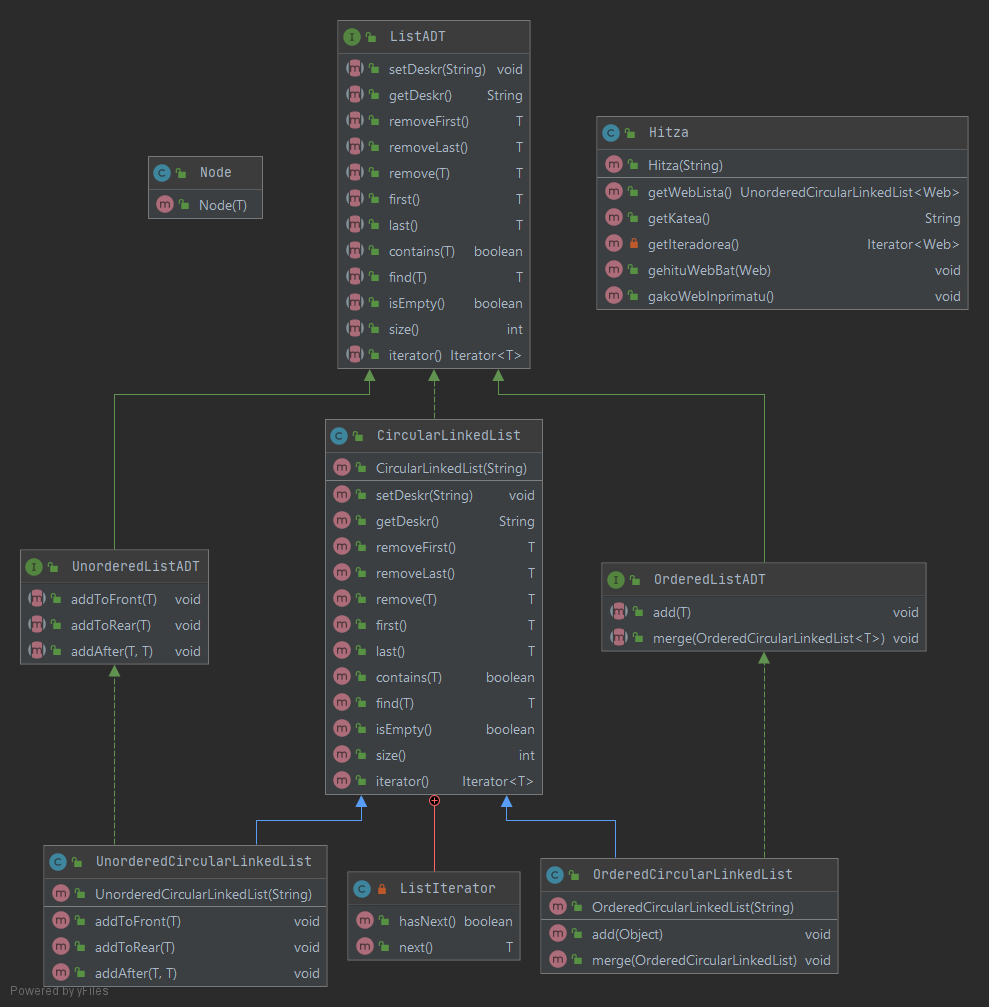
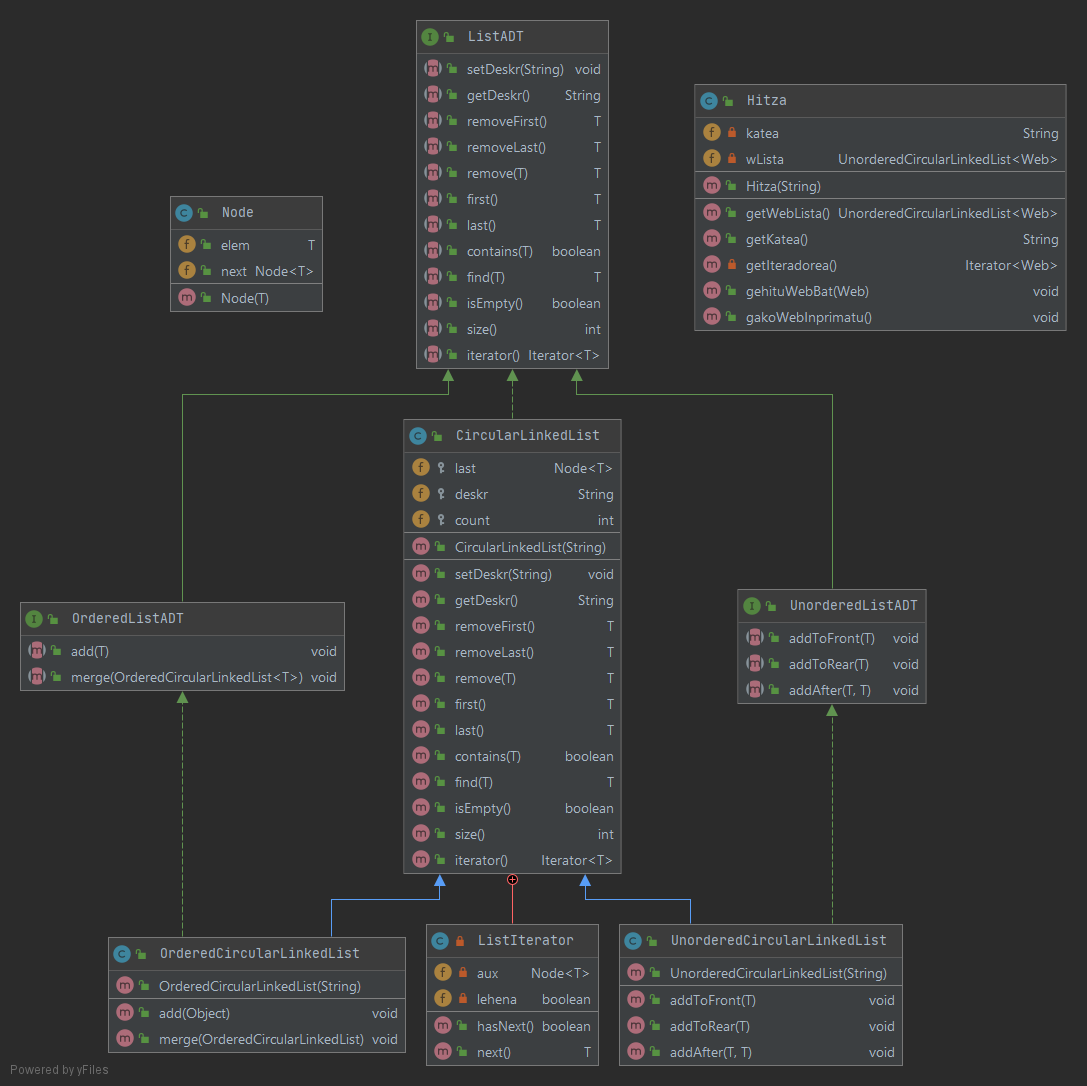
diagrama

diff --git a/labs/src/packlEnuntziatu2/CircularLinkedList.java b/labs/src/packlEnuntziatu2/CircularLinkedList.java
@@ -3,9 +3,9 @@ package packlEnuntziatu2;
 import java.util.Iterator;
 
 public class CircularLinkedList<T> implements ListADT<T>{
-	public Node<T> last;
-	public String deskr;
-	public int count;
+	protected Node<T> last;
+	protected String deskr;
+	protected int count;
 	
 	
 	
@@ -124,7 +124,7 @@ public class CircularLinkedList<T> implements ListADT<T>{
 	}
 	private class ListIterator implements Iterator<T>{
 		private Node<T> aux=last;
-		boolean lehena=false;
+		private boolean lehena=false;
 		public boolean hasNext() {
 			if(isEmpty()) {
 				return false;
